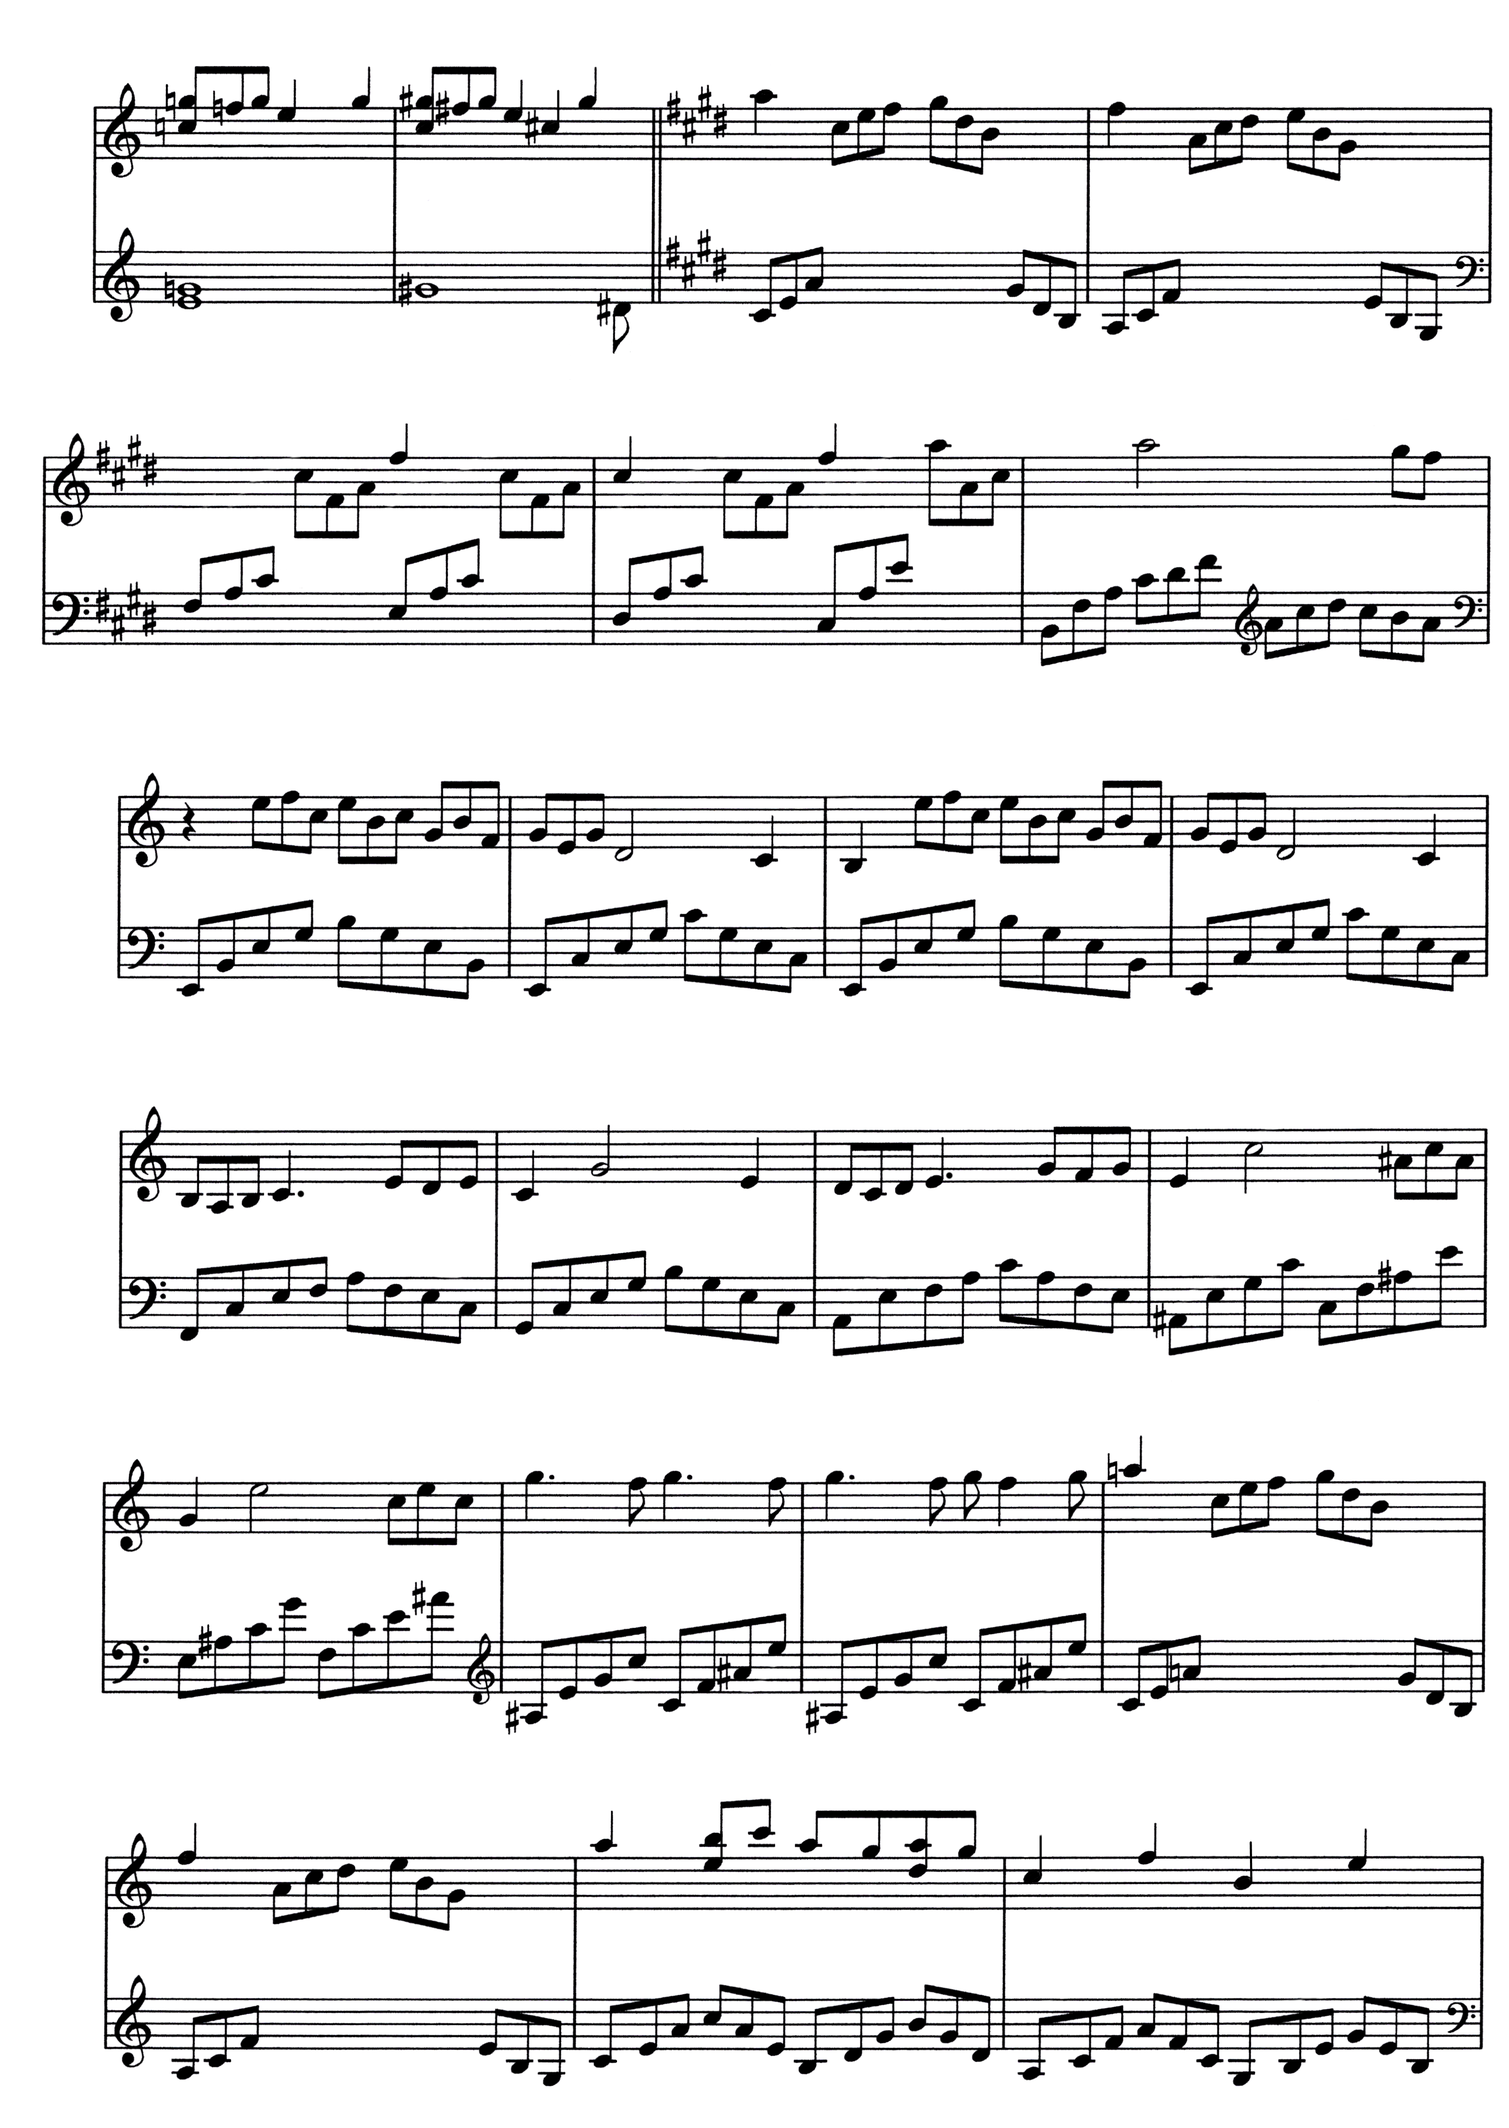
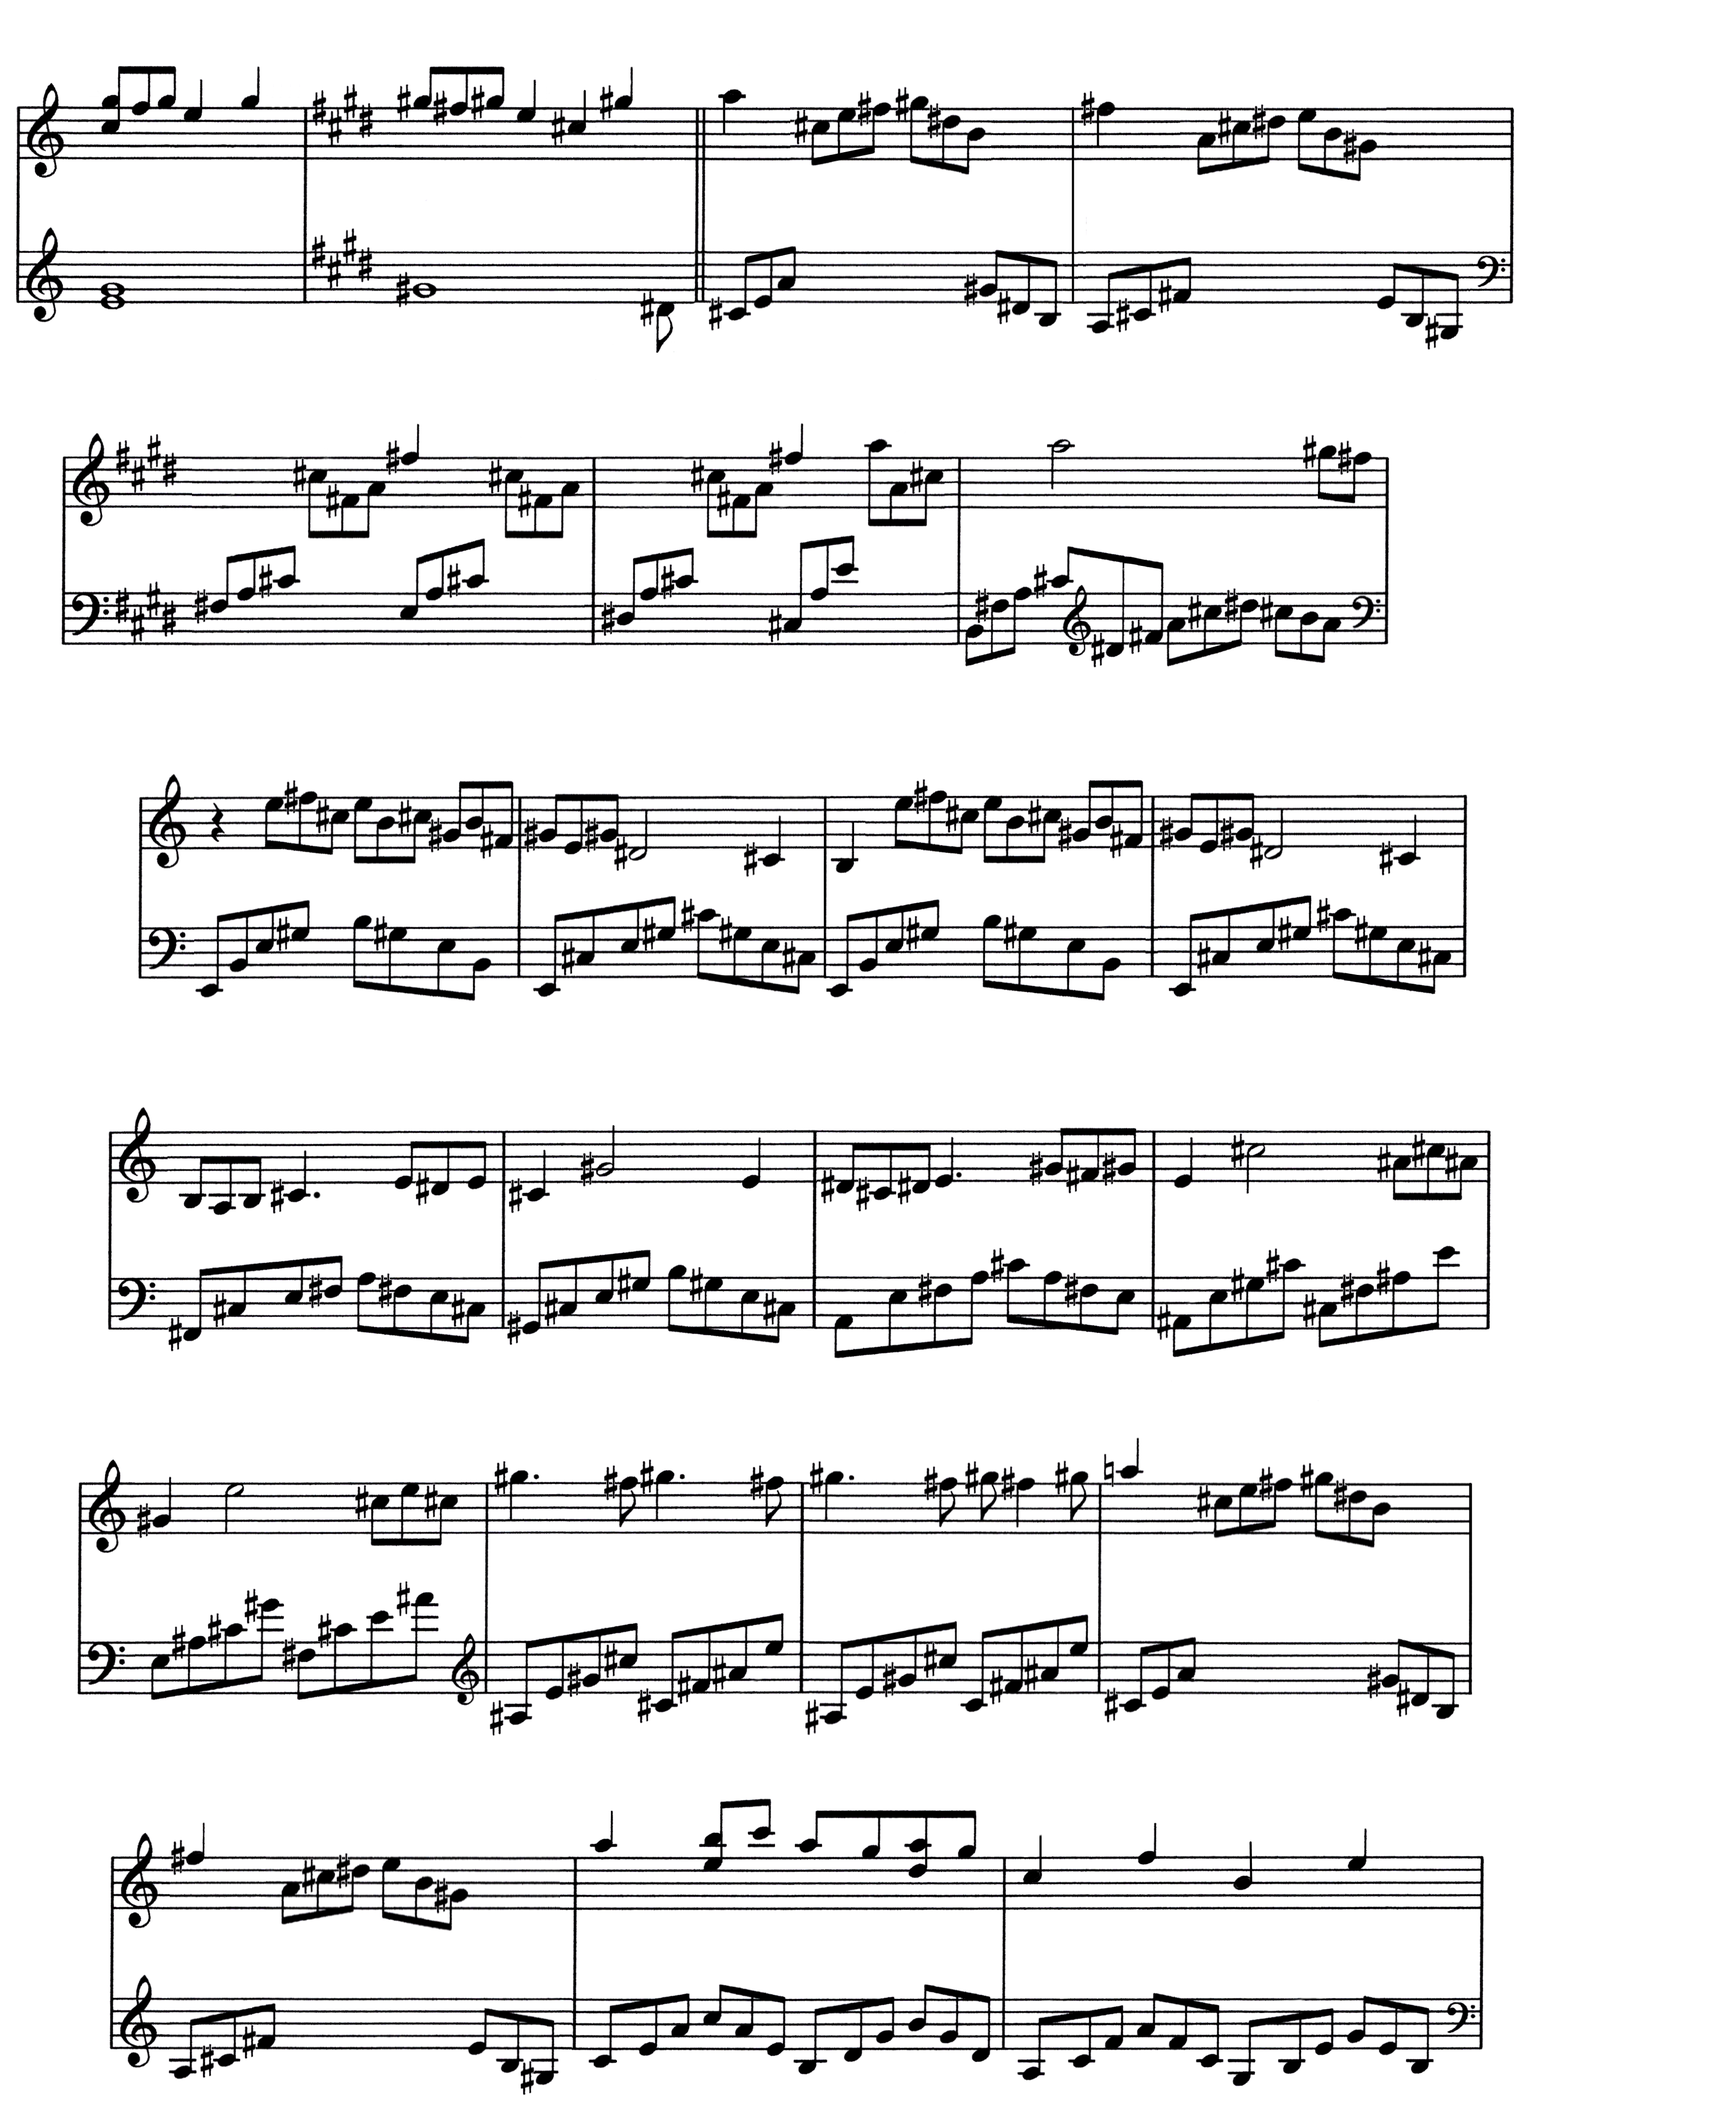
🎵 debussy-arabesque-1\sheet-music-simplified: Adding accidentals (even when part of key) finished most of page 4. Changed page 1 a bit too.

diff --git a/debussy-arabesque-1/debussy-arabesque-1-todo.md b/debussy-arabesque-1/debussy-arabesque-1-todo.md
@@ -44,7 +44,7 @@ TODO
 - [x] ~~Removing repeated clefts.~~ > Changes too often.
 - [x] Simplifying note durations / voicing notation.
 - [ ] __Adding accidentals__ (even when part of key) (might take a few hours more).
-    - [ ] WAS AT: Page 4
+    - [ ] WAS AT: page 4, last line, bar 2
 - [ ] Change B# => C | Cb => B | E# => F | Fb => E
 - [ ] Adding title (adding the word 'simplified')
 - [ ] Adding page numbers (font not too small)
